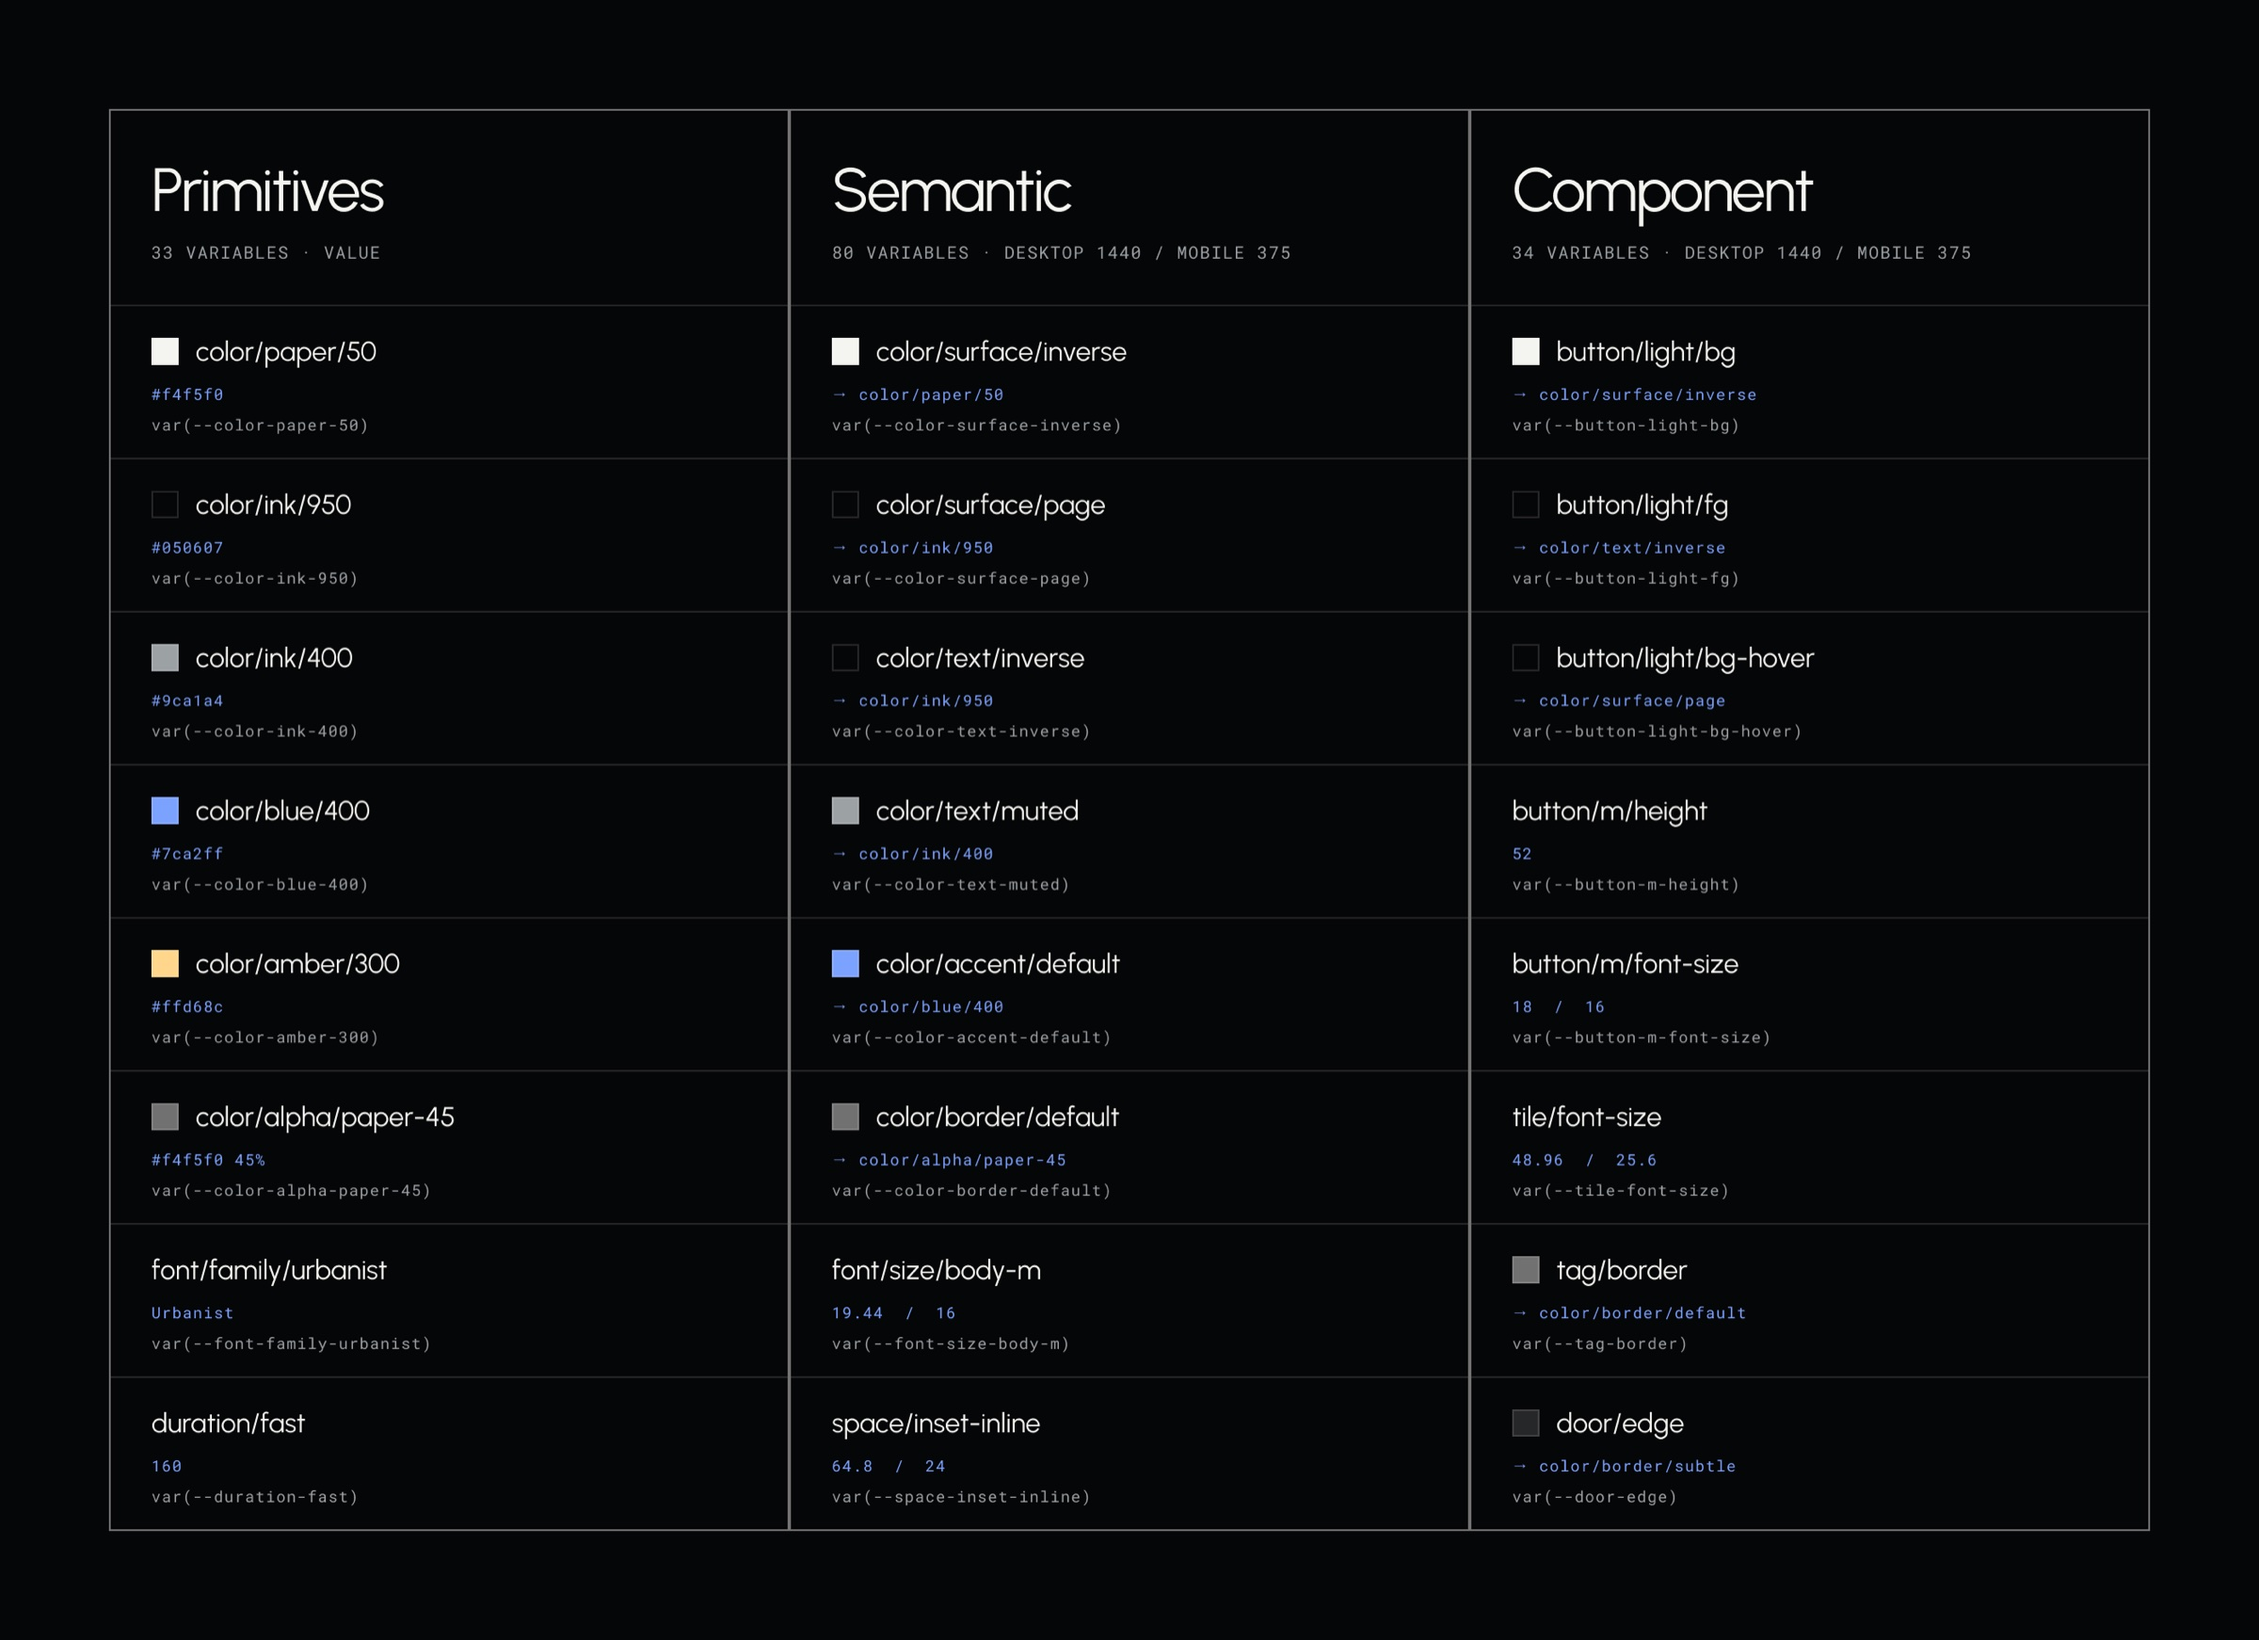
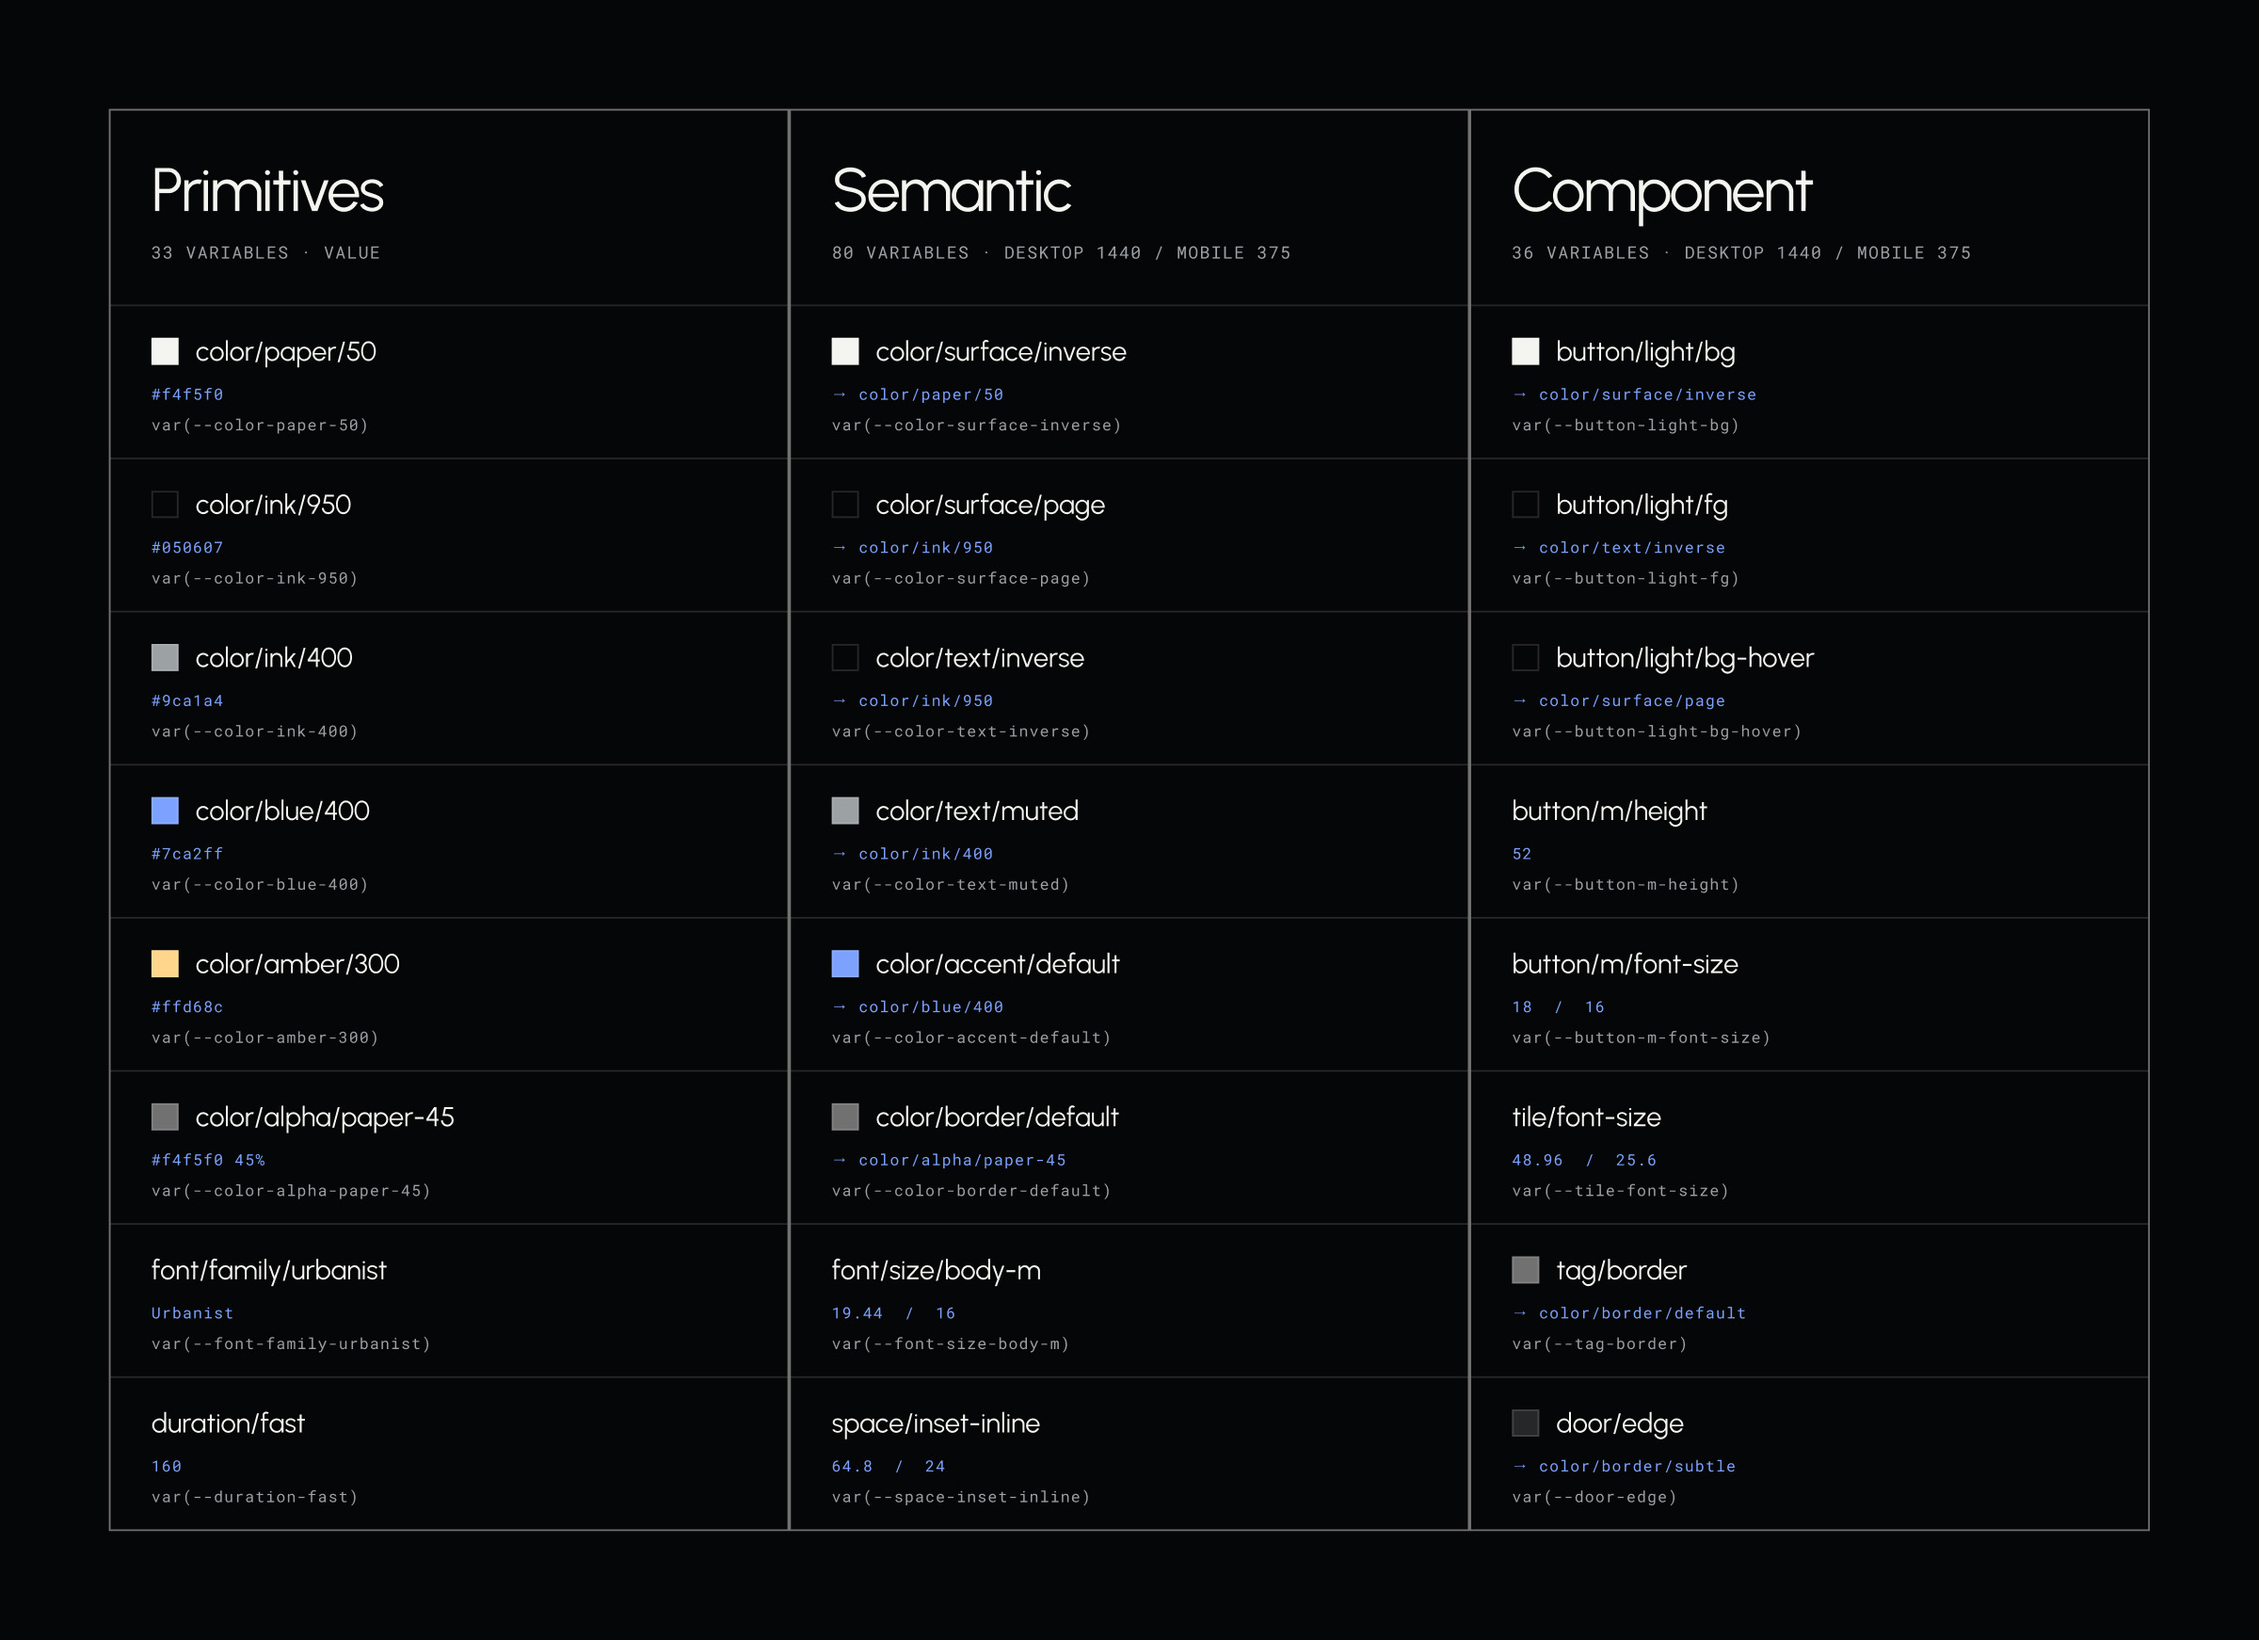
Refresh the variables and Button docs screenshots
- Figma variables overview now shows 36 Component variables
- Button docs show the popover wording and every prop: Storybook's docgen
  drops props inside a union, so external and popoverTarget are described
  in the stories

diff --git a/packages/ui/src/components/Button/Button.stories.tsx b/packages/ui/src/components/Button/Button.stories.tsx
@@ -9,6 +9,17 @@ const meta = {
     variant: { control: "inline-radio", options: ["light", "dark", "text"] },
     size: { control: "inline-radio", options: ["m", "s"] },
     icon: { control: "inline-radio", options: ["↗", "↓", ""] },
+    // Docgen drops props that live in a union, so these two are described here.
+    external: {
+      description: "Opens in a new tab with safe rel attributes.",
+      control: "boolean",
+      table: { type: { summary: "boolean" }, defaultValue: { summary: "false" } },
+    },
+    popoverTarget: {
+      description: "Id of a popover to open: renders a real button instead of a link. Use it instead of href.",
+      control: "text",
+      table: { type: { summary: "string" } },
+    },
   },
 } satisfies Meta<typeof Button>;
 
